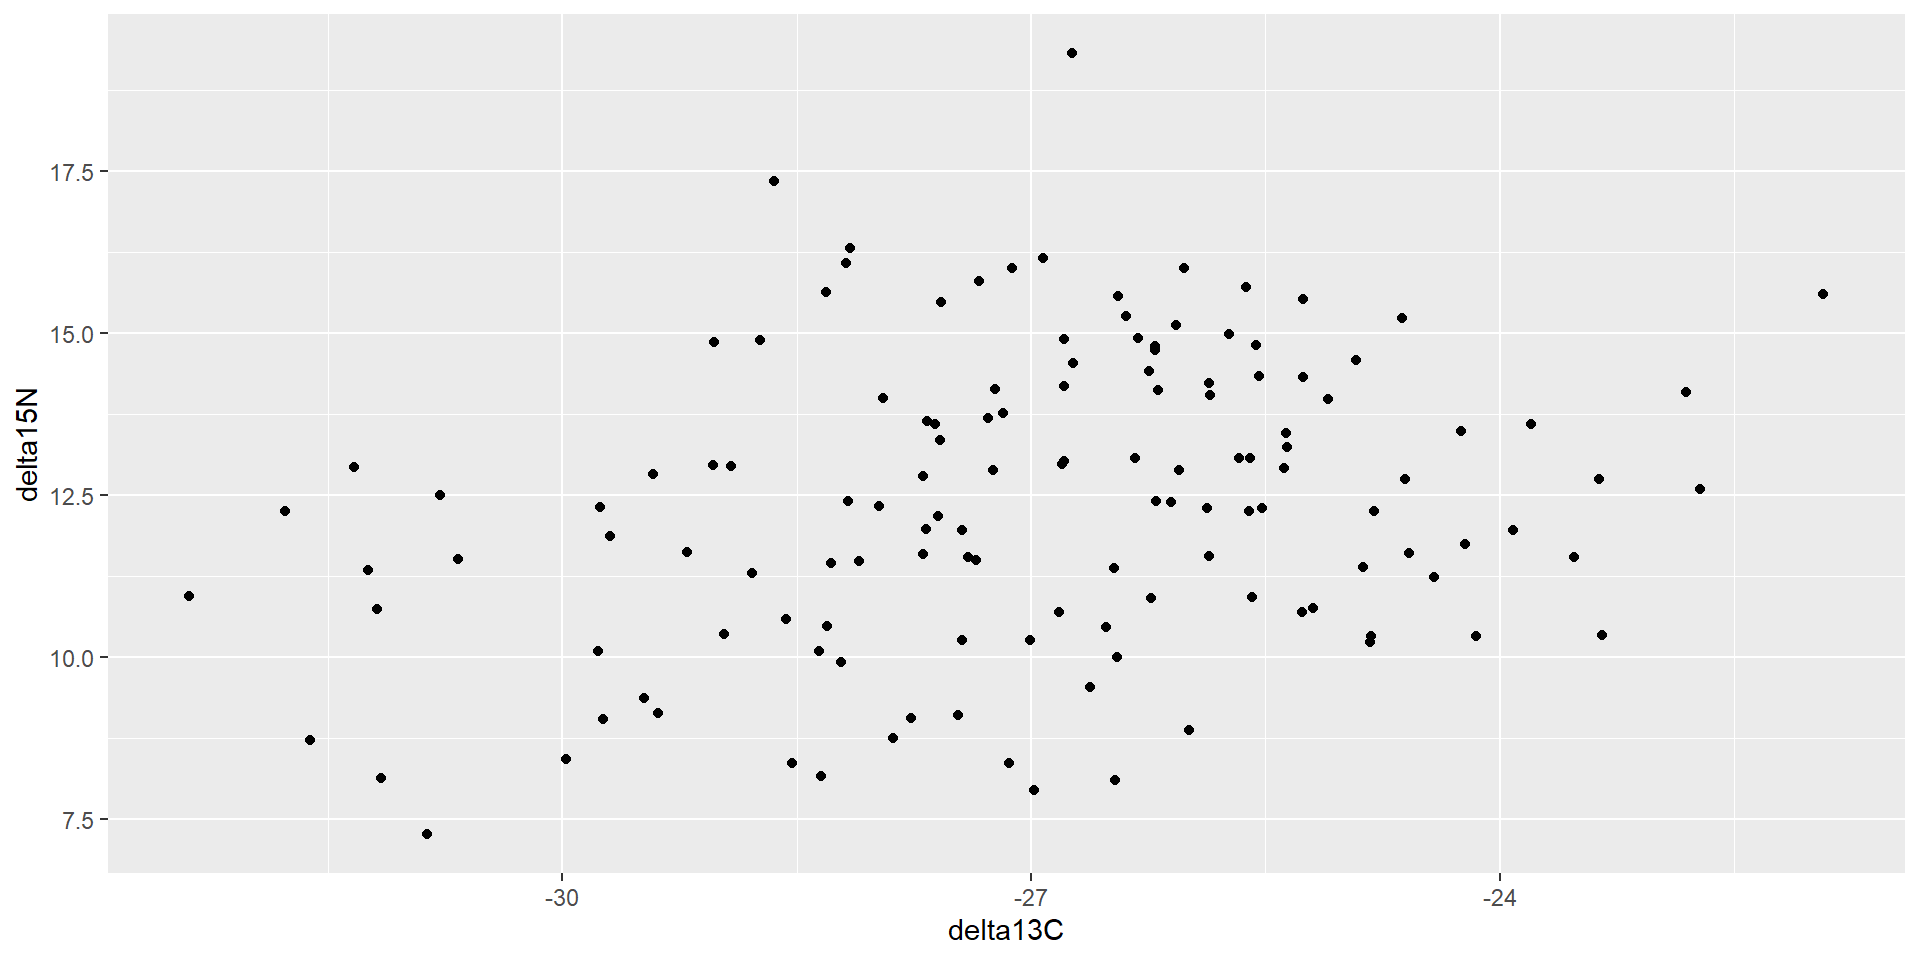
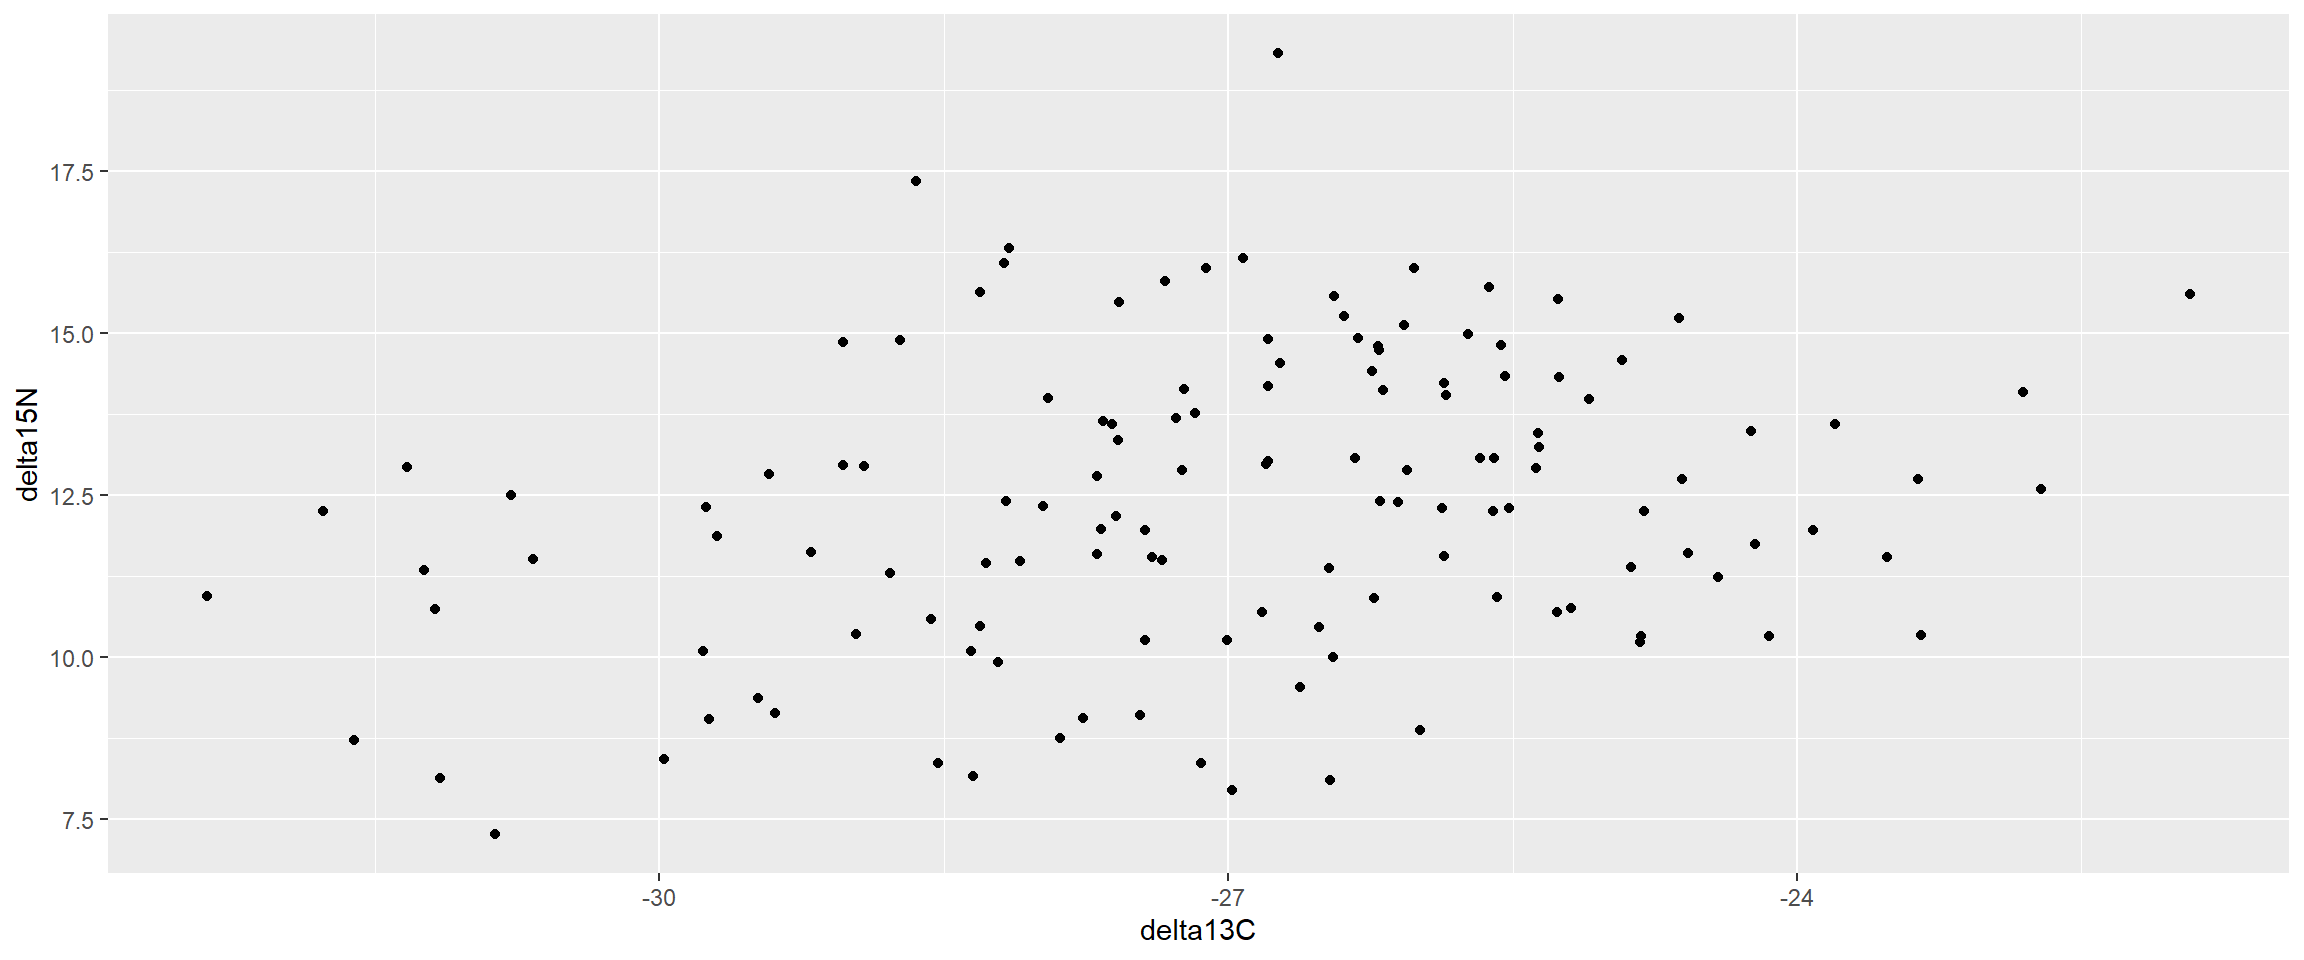
resize figures

diff --git a/figures.html b/figures.html
@@ -346,15 +346,15 @@ div.tocify {
 
 <div id="mysis-δ15n-by-δ13c" class="section level1">
 <h1><strong>Mysis δ<sup>15</sup>N by δ<sup>13</sup>C</strong></h1>
-<p><img src="figures_files/figure-html/unnamed-chunk-2-1.png" width="960" /></p>
+<p><img src="figures_files/figure-html/unnamed-chunk-2-1.png" width="1152" /></p>
 </div>
 <div id="zooplankton-δ15-n" class="section level1">
 <h1><strong>Zooplankton δ<sup>15</sup> N</strong></h1>
-<p><img src="figures_files/figure-html/unnamed-chunk-3-1.png" width="960" /></p>
+<p><img src="figures_files/figure-html/unnamed-chunk-3-1.png" width="1152" /></p>
 </div>
 <div id="zooplankton-δ13-c" class="section level1">
 <h1><strong>Zooplankton δ<sup>13</sup> C</strong></h1>
-<p><img src="figures_files/figure-html/unnamed-chunk-4-1.png" width="960" /></p>
+<p><img src="figures_files/figure-html/unnamed-chunk-4-1.png" width="1152" /></p>
 </div>
 
 
